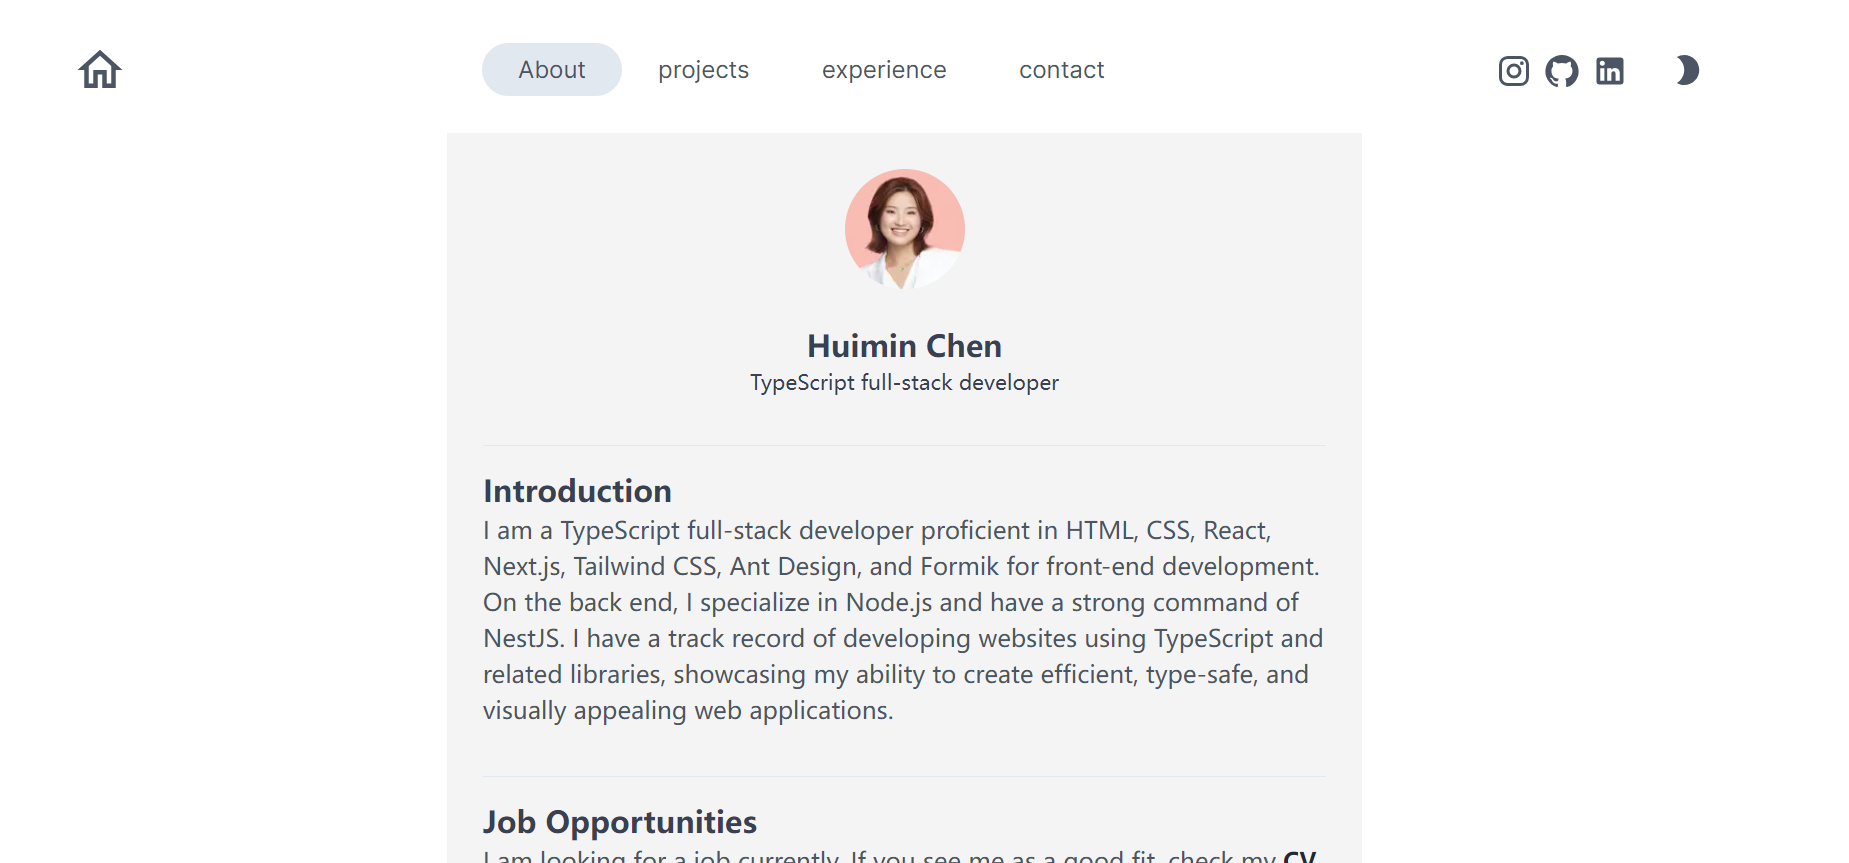
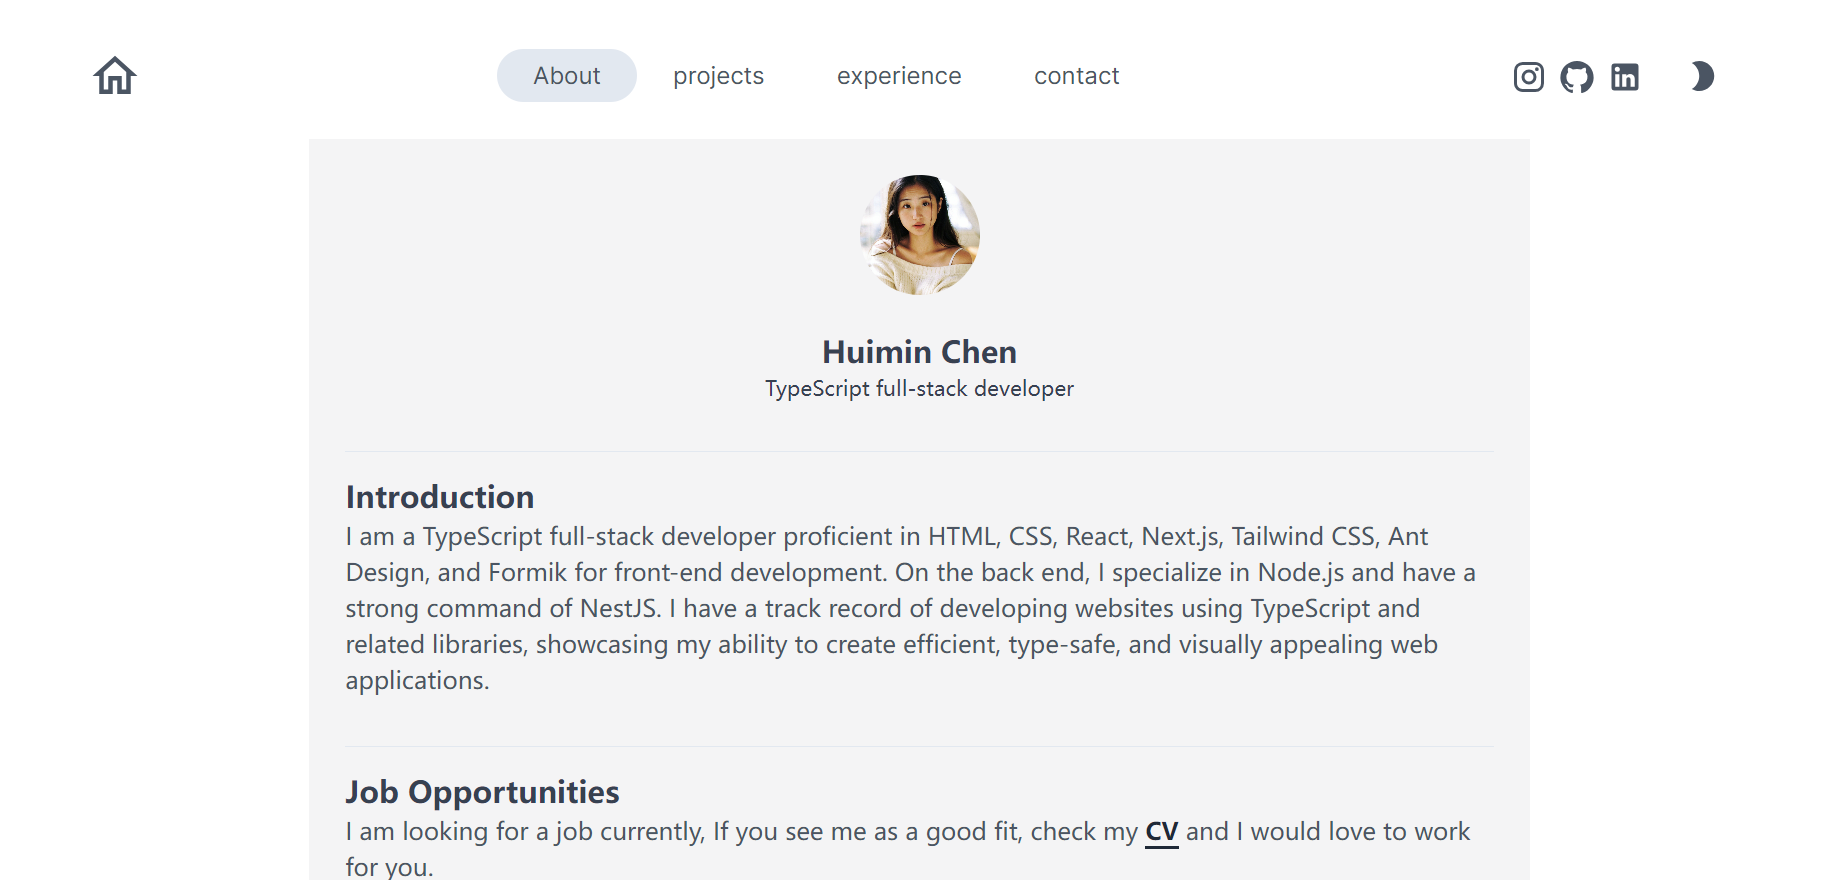
add new pages and changes

diff --git a/src/app/components/Aboutme.tsx b/src/app/components/Aboutme.tsx
@@ -5,7 +5,7 @@ import Image from "next/image";
 function Aboutme() {
   return (
     <div className="flex font-sans justify-center p-6">
-      <div className="md:w-1/2 dark:bg-slate-800 bg-zinc-100">
+      <div className="md:w-2/3 dark:bg-slate-800 bg-zinc-100">
         <div className="flex justify-center pt-6">
           <Image
             src={userData.avatarUrl}
